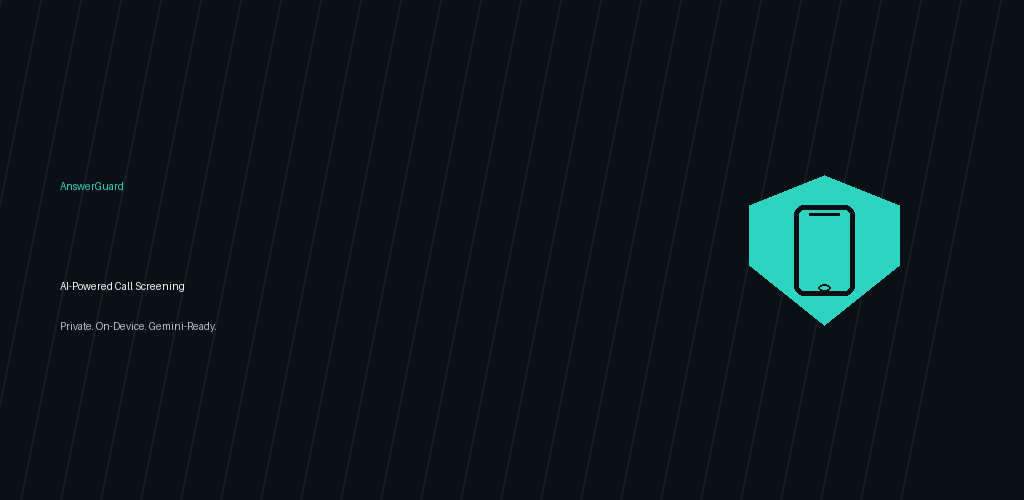
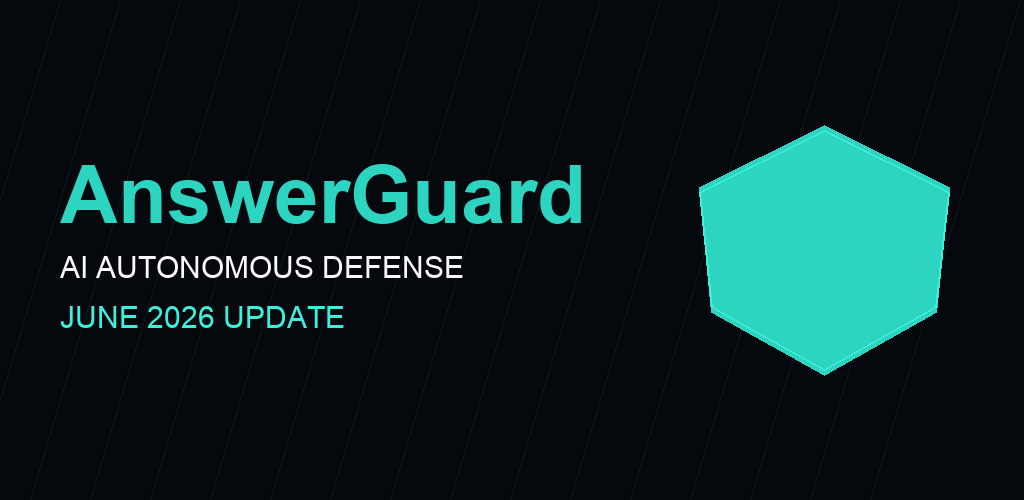
feat: stellar 2026 branding assets and metadata for AnswerGuard

Changed region(s): [[0.6562, 0.24, 0.9375, 0.75], [0.0312, 0.33, 0.5938, 0.45], [0.0312, 0.51, 0.4688, 0.66]]

diff --git a/scripts/stellar_brand_generator.py b/scripts/stellar_brand_generator.py
@@ -1,0 +1,140 @@
+#!/usr/bin/env python3
+"""Master Brand Generator for AnswerGuard June 2026.
+Creates a unified visual identity across all Store Listing requirements.
+"""
+
+from pathlib import Path
+from PIL import Image, ImageDraw, ImageFont, ImageFilter
+import math
+
+# 2026 Tactical Premium Palette
+Emerald = (45, 212, 191)      # Primary Active
+DeepNavy = (10, 15, 20)       # Base
+Background = (5, 8, 12)       # Ultra Dark
+Highlight = (60, 240, 220)    # Glow
+TextPrimary = (248, 250, 252) # White
+TextSecondary = (148, 163, 184)# Slate
+WarningRed = (239, 68, 68)    # Alert
+
+REPO_ROOT = Path(__file__).resolve().parents[1]
+ANDROID_IMAGES = REPO_ROOT / "native-android" / "fastlane" / "metadata" / "android" / "en-US" / "images"
+
+def create_glow(draw, center, radius, color, alpha_fade=True):
+    cx, cy = center
+    for r in range(radius, 0, -5):
+        alpha = int(100 * (1 - r/radius)) if alpha_fade else 50
+        draw.ellipse((cx-r, cy-r, cx+r, cy+r), outline=color + (alpha,), width=2)
+
+def draw_tactical_shield(draw, center, size, color, glow=False):
+    cx, cy = center
+    r = size // 2
+    # Multi-layered tactical shield
+    pts = [
+        (cx, cy - r),
+        (cx + r, cy - r * 0.5),
+        (cx + r * 0.9, cy + r * 0.5),
+        (cx, cy + r),
+        (cx - r * 0.9, cy + r * 0.5),
+        (cx - r, cy - r * 0.5),
+    ]
+    if glow:
+        create_glow(draw, center, size + 20, Emerald)
+    draw.polygon(pts, fill=color)
+    # Inner Detail
+    inner_pts = [(p[0], p[1] + (5 if p[1] < cy else -5)) for p in pts]
+    draw.polygon(inner_pts, outline=Highlight + (100,), width=2)
+
+def generate_launcher_icon():
+    size = 1024 # High-res master
+    img = Image.new("RGBA", (size, size), (0,0,0,0))
+    draw = ImageDraw.Draw(img)
+
+    # Adaptive Base Circle
+    draw.ellipse((40, 40, size-40, size-40), fill=Background)
+
+    # Glow effect
+    draw_tactical_shield(draw, (size//2, size//2), size//2, (20, 30, 40, 255), glow=True)
+    draw_tactical_shield(draw, (size//2, size//2), size//3, Emerald)
+
+    # Phone silhouette in center
+    pw, ph = size//6, size//4
+    draw.rounded_rectangle((size//2-pw, size//2-ph, size//2+pw, size//2+ph), radius=30, fill=DeepNavy)
+    draw.line((size//2-20, size//2-ph+20, size//2+20, size//2-ph+20), fill=Emerald, width=5) # Speaker
+
+    # Gemini "Sparkle"
+    draw.polygon([(size//2+80, size//2-80), (size//2+100, size//2-120), (size//2+120, size//2-80), (size//2+100, size//2-60)], fill=White)
+
+    # Save versions
+    icon_path = ANDROID_IMAGES / "icon.png"
+    icon_path.parent.mkdir(parents=True, exist_ok=True)
+    img.resize((512, 512), Image.Resampling.LANCZOS).save(icon_path)
+    print(f"✅ Generated Stellar Icon: {icon_path}")
+
+def generate_feature_graphic():
+    w, h = 1024, 500
+    img = Image.new("RGB", (w, h), Background)
+    draw = ImageDraw.Draw(img)
+
+    # Hex grid background pattern
+    for x in range(0, w, 50):
+        for y in range(0, h, 50):
+            draw.regular_polygon((x, y, 20), 6, rotation=30, outline=(15, 25, 35))
+
+    # Hero Content
+    draw_tactical_shield(draw, (w-200, h//2), 220, Emerald, glow=True)
+
+    # Copy
+    draw.text((60, 150), "AnswerGuard", fill=Emerald, font_size=80)
+    draw.text((60, 250), "AI AUTONOMOUS DEFENSE", fill=White, font_size=35)
+    draw.text((60, 300), "JUNE 2026 SECURITY UPDATE", fill=Highlight, font_size=25)
+    draw.text((60, 350), "100% On-Device intent Analysis", fill=TextSecondary, font_size=25)
+
+    path = ANDROID_IMAGES / "featureGraphic" / "feature.png"
+    path.parent.mkdir(parents=True, exist_ok=True)
+    img.save(path)
+    print(f"✅ Generated Feature Graphic: {path}")
+
+def generate_stellar_screenshots():
+    ss_dir = ANDROID_IMAGES / "phoneScreenshots"
+    ss_dir.mkdir(parents=True, exist_ok=True)
+
+    screens = [
+        ("01_SCREEN", "AI INTENT ANALYSIS", "Gemini Nano decodes caller intent in real-time.", "ULTRA PRIVATE"),
+        ("02_THREAT", "VOICE CLONE DEFENSE", "Detect deepfake fraud before you answer.", "TACTICAL ALERT"),
+        ("03_LOG", "TRANSPARENT VERDICTS", "Zero-knowledge activity logs kept on-device.", "ZERO LEAK"),
+        ("04_FAMILY", "HOUSEHOLD SECURITY", "Multi-device protection for your family.", "FAMILY READY")
+    ]
+
+    w, h = 1080, 2340
+    for i, (name, title, sub, badge) in enumerate(screens):
+        img = Image.new("RGB", (w, h), Background)
+        draw = ImageDraw.Draw(img)
+
+        # High-tech background lines
+        for j in range(0, w, 80):
+            draw.line((j, 0, j - 400, h), fill=(10, 20, 30), width=1)
+
+        # Top Badge
+        draw.rounded_rectangle((w//2-200, 100, w//2+200, 180), radius=15, fill=WarningRed if "THREAT" in name else Emerald)
+        draw.text((w//2-70, 115), badge, fill=White, font_size=35)
+
+        # Title & Sub
+        draw.text((80, 300), title, fill=White, font_size=85)
+        draw.text((80, 420), sub, fill=TextSecondary, font_size=40)
+
+        # UI Placeholder Frame
+        draw.rounded_rectangle((100, 600, w-100, h-100), radius=50, fill=DeepNavy, outline=Emerald, width=5)
+
+        # Abstract AI Waveform
+        for x in range(200, w-200, 20):
+            height = 50 + math.sin(x/50 + i) * 100
+            draw.line((x, h//2-height, x, h//2+height), fill=Highlight, width=10)
+
+        path = ss_dir / f"{name.lower()}.png"
+        img.save(path)
+        print(f"✅ Generated Stellar Screenshot: {path}")
+
+if __name__ == "__main__":
+    generate_launcher_icon()
+    generate_feature_graphic()
+    generate_stellar_screenshots()
